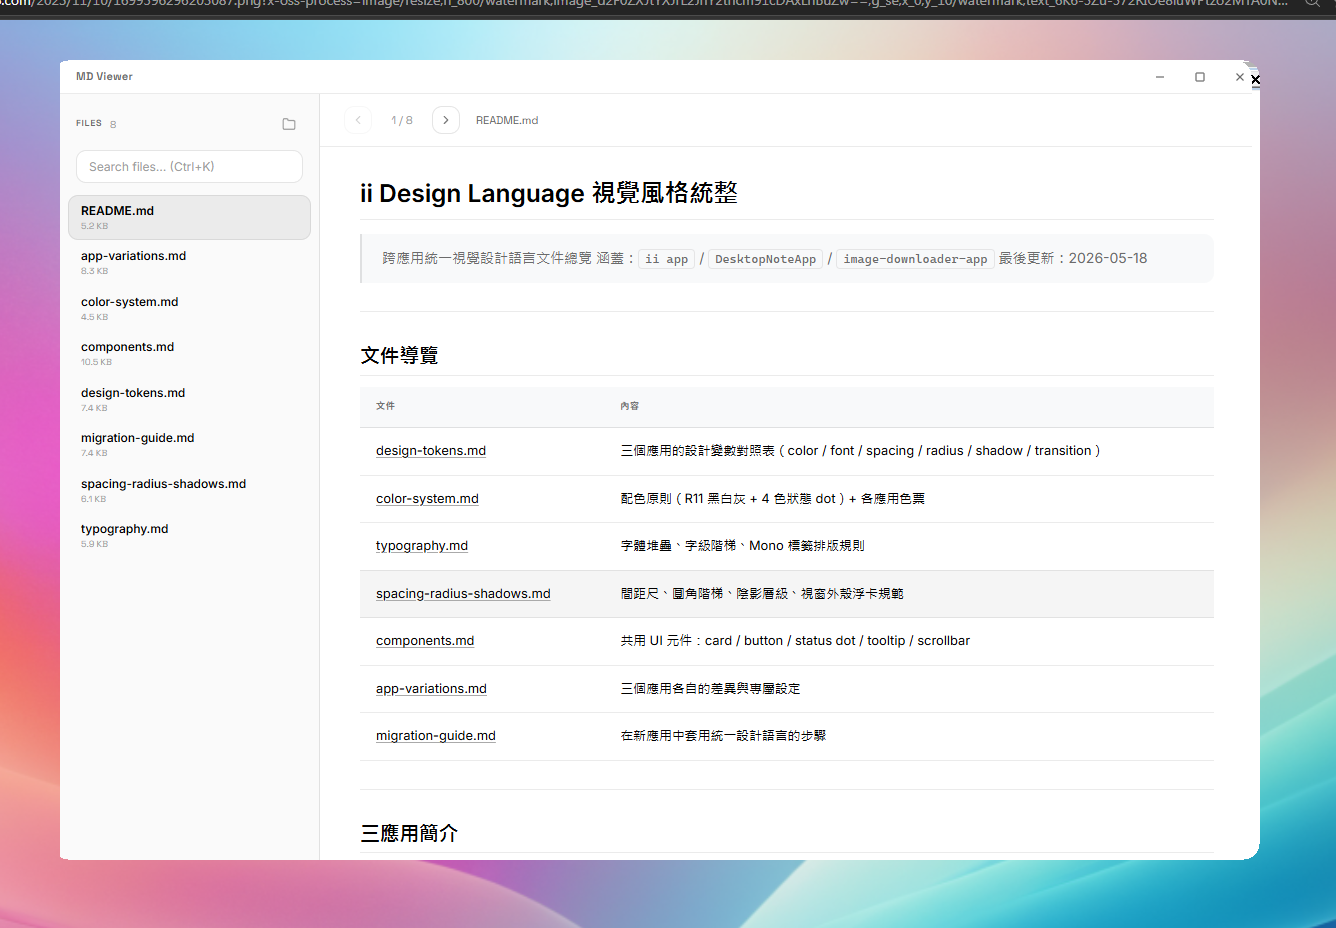
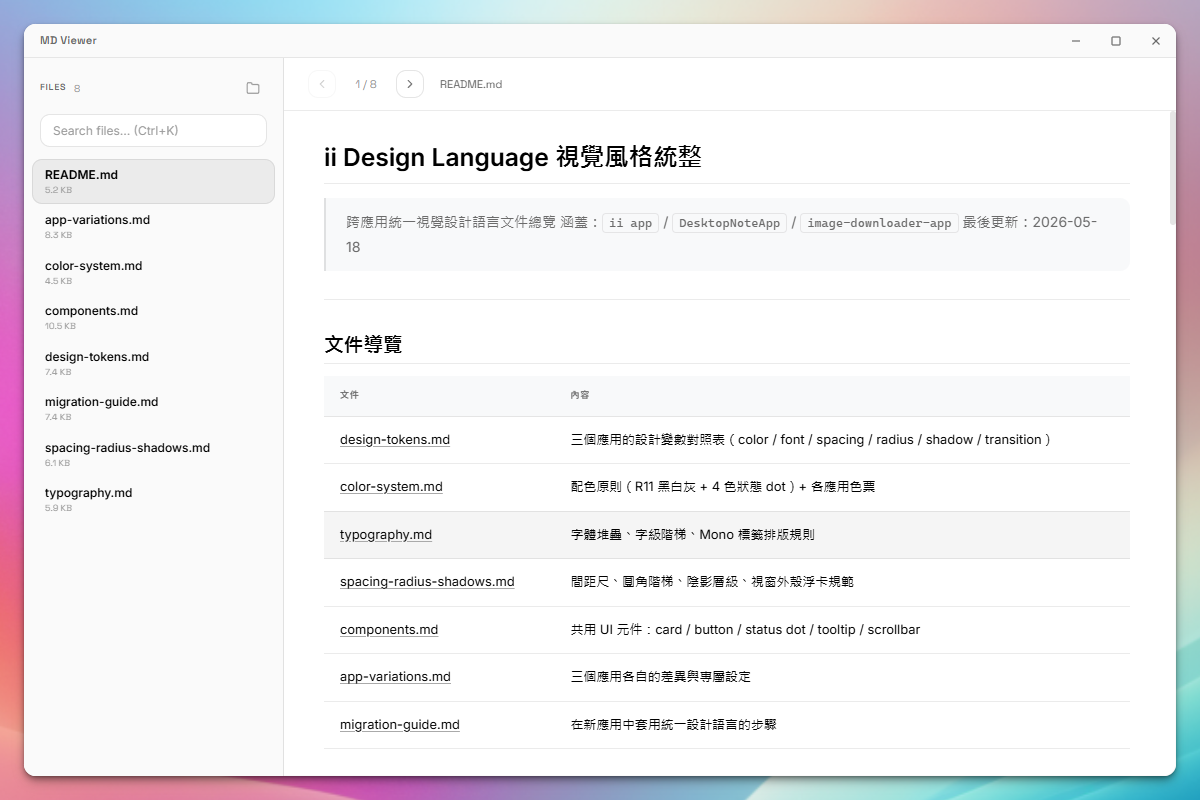
Switch rounded corners + shadow to transparent-window + CSS approach
The previous DWM/SetWindowRgn strategy on Windows 10 only produced a
bottom-edge shadow because DwmExtendFrameIntoClientArea cannot draw a
balanced drop shadow around a regioned, decoration-less window. Replace
it with the same pattern SVG Viewer uses (ii Design Language signature):

- tauri.conf: transparent=true, shadow=false (no DWM shadow needed)
- App.vue: outer .shell-padding (transparent ring) hosts the drag region;
  inner .shell carries background, border-radius, and a 3-layer CSS
  box-shadow that fades out within the 24px padding ring
- tokens.css: add --shadow-shell (matches SVG Viewer's --shadow-shell),
  --shell-padding 24px, --window-radius 12px, body background transparent
- TitleBar.vue: drop the redundant top-corner radius — the .shell already
  clips it with overflow: hidden
- lib.rs: remove the now-unused win_corners module and setup hook

Result: balanced soft drop shadow on all four sides, identical to
SVG Viewer's chrome.

diff --git a/src/App.vue b/src/App.vue
@@ -2,11 +2,21 @@
 import { ref, onMounted } from 'vue'
 import { invoke } from '@tauri-apps/api/core'
 import { listen } from '@tauri-apps/api/event'
+import { getCurrentWindow } from '@tauri-apps/api/window'
 import type { MdFileEntry, ViewState } from './types'
 import { scanMdFiles, saveLastDir } from './composables/useFileSystem'
 import TitleBar from './components/TitleBar.vue'
 import LandingPage from './components/LandingPage.vue'
 import FileBrowser from './components/FileBrowser.vue'
+
+const win = getCurrentWindow()
+
+/** Drag the window from the transparent outer padding ring. */
+async function onPaddingMouseDown(e: MouseEvent) {
+  if (e.button !== 0) return
+  if (e.target !== e.currentTarget) return
+  await win.startDragging()
+}
 
 const view = ref<ViewState>('landing')
 const files = ref<MdFileEntry[]>([])
@@ -67,36 +77,48 @@ onMounted(async () => {
 </script>
 
 <template>
-  <div class="app-frame">
-    <TitleBar />
-    <div class="app-body">
-      <LandingPage
-        v-if="view === 'landing'"
-        @folder-opened="handleFolderOpened"
-      />
-      <FileBrowser
-        v-else
-        :files="files"
-        :current-dir="currentDir"
-        :initial-file-path="initialFilePath"
-        @change-folder="handleChangeFolder"
-        @folder-opened="handleFolderOpened"
-      />
+  <div class="shell-padding" @mousedown="onPaddingMouseDown" data-tauri-drag-region>
+    <div class="shell">
+      <TitleBar />
+      <div class="shell-body">
+        <LandingPage
+          v-if="view === 'landing'"
+          @folder-opened="handleFolderOpened"
+        />
+        <FileBrowser
+          v-else
+          :files="files"
+          :current-dir="currentDir"
+          :initial-file-path="initialFilePath"
+          @change-folder="handleChangeFolder"
+          @folder-opened="handleFolderOpened"
+        />
+      </div>
     </div>
   </div>
 </template>
 
 <style scoped>
-.app-frame {
-  width: 100%;
+/* Outer ring — fully transparent so the inner shell's box-shadow can fade out. */
+.shell-padding {
   height: 100%;
+  padding: var(--shell-padding);
+  background: transparent;
+  overflow: hidden;
+}
+
+/* The visible card — rounded corners + layered drop shadow. */
+.shell {
+  height: 100%;
+  background: var(--bg);
+  border-radius: var(--window-radius);
+  box-shadow: var(--shadow-shell);
   display: flex;
   flex-direction: column;
   overflow: hidden;
-  background: var(--bg);
 }
 
-.app-body {
+.shell-body {
   flex: 1;
   overflow: hidden;
 }

diff --git a/src/styles/tokens.css b/src/styles/tokens.css
@@ -72,6 +72,12 @@
   /* Shadows */
   --shadow-card:  0 1px 4px rgba(0, 0, 0, 0.06);
   --shadow-modal: 0 4px 24px rgba(0, 0, 0, 0.18);
+  /* App-shell shadow — needs the outer transparent padding to fade out within. */
+  --shadow-shell:
+    inset 0 0 0 1px var(--bg-raised),
+    0 1px 2px rgba(0, 0, 0, 0.18),
+    0 3px 6px rgba(0, 0, 0, 0.26),
+    0 6px 12px -2px rgba(0, 0, 0, 0.34);
 
   /* Glass */
   --glass-bg:     rgba(255, 255, 255, 0.78);
@@ -80,7 +86,8 @@
   /* Layout */
   --sidebar-width: 260px;
   --titlebar-h: 34px;
-  --window-radius: 16px;
+  --window-radius: 12px;
+  --shell-padding: 24px;
 }
 
 /* ── Base ───────────────────────────────────────── */
@@ -92,7 +99,7 @@ html, body, #app {
   font-size: var(--text-md);
   line-height: 1.5;
   color: var(--fg);
-  background: var(--bg);
+  background: transparent;
   -webkit-font-smoothing: antialiased;
   -moz-osx-font-smoothing: grayscale;
 }

diff --git a/src/components/TitleBar.vue b/src/components/TitleBar.vue
@@ -79,13 +79,12 @@ onUnmounted(() => {
   justify-content: space-between;
   height: var(--titlebar-h);
   padding-left: var(--gap-4);
-  background: var(--bg);
+  background: var(--bg-raised);
   border-bottom: 0.5px solid var(--border-soft);
   flex-shrink: 0;
   user-select: none;
   -webkit-user-select: none;
-  /* Top corners match the window radius */
-  border-radius: var(--window-radius) var(--window-radius) 0 0;
+  /* Top corners are already clipped by the parent .shell — no radius needed here */
 }
 
 .titlebar-title {

diff --git a/src-tauri/src/lib.rs b/src-tauri/src/lib.rs
@@ -133,87 +133,6 @@ fn is_md_file_arg(arg: &str) -> bool {
             .unwrap_or(false)
 }
 
-/* ── Windows: rounded window corners ──────────── */
-// Strategy:
-// 1. Windows 11 (build 22000+): DwmSetWindowAttribute with DWMWA_WINDOW_CORNER_PREFERENCE
-//    -> smooth anti-aliased rounded corners + native shadow
-// 2. Windows 10: SetWindowRgn with CreateRoundRectRgn
-//    -> aliased but visible rounded corners (DWM corner API is no-op on Win10)
-
-#[cfg(target_os = "windows")]
-mod win_corners {
-    use std::ffi::c_void;
-
-    #[repr(C)]
-    struct RECT { left: i32, top: i32, right: i32, bottom: i32 }
-
-    #[repr(C)]
-    struct MARGINS { cx_left: i32, cx_right: i32, cy_top: i32, cy_bottom: i32 }
-
-    #[link(name = "dwmapi")]
-    extern "system" {
-        fn DwmSetWindowAttribute(hwnd: isize, attr: u32, value: *const c_void, size: u32) -> i32;
-        fn DwmExtendFrameIntoClientArea(hwnd: isize, pMarInset: *const MARGINS) -> i32;
-    }
-
-    #[link(name = "user32")]
-    extern "system" {
-        fn GetClientRect(hwnd: isize, lpRect: *mut RECT) -> i32;
-        fn SetWindowRgn(hwnd: isize, hrgn: *mut c_void, b_redraw: i32) -> i32;
-    }
-
-    #[link(name = "gdi32")]
-    extern "system" {
-        fn CreateRoundRectRgn(
-            x1: i32, y1: i32, x2: i32, y2: i32, w: i32, h: i32,
-        ) -> *mut c_void;
-    }
-
-    const DWMWA_WINDOW_CORNER_PREFERENCE: u32 = 33;
-    const DWMWCP_ROUND: u32 = 2;
-    const CORNER_RADIUS: i32 = 16;
-
-    /// Enable DWM-drawn shadow even for borderless / regioned windows.
-    /// Margins of {0,0,1,0} extends the frame just 1px into the top of the
-    /// client area — enough for DWM to draw a shadow around the whole window
-    /// without visually affecting our custom title bar.
-    fn enable_shadow(hwnd: isize) {
-        unsafe {
-            let m = MARGINS { cx_left: 0, cx_right: 0, cy_top: 1, cy_bottom: 0 };
-            DwmExtendFrameIntoClientArea(hwnd, &m);
-        }
-    }
-
-    pub fn apply(hwnd: isize) {
-        unsafe {
-            // 1) Try Windows 11 native rounded corners (preserves shadow automatically)
-            let pref = DWMWCP_ROUND;
-            let hr = DwmSetWindowAttribute(
-                hwnd,
-                DWMWA_WINDOW_CORNER_PREFERENCE,
-                &pref as *const u32 as *const c_void,
-                std::mem::size_of::<u32>() as u32,
-            );
-
-            if hr != 0 {
-                // 2) Windows 10 fallback: SetWindowRgn for rounded corners
-                let mut rect = RECT { left: 0, top: 0, right: 0, bottom: 0 };
-                GetClientRect(hwnd, &mut rect);
-                let region = CreateRoundRectRgn(
-                    0, 0,
-                    rect.right + 1, rect.bottom + 1,
-                    CORNER_RADIUS * 2 + 1, CORNER_RADIUS * 2 + 1,
-                );
-                if !region.is_null() {
-                    SetWindowRgn(hwnd, region, 1);
-                }
-                // SetWindowRgn strips the DWM shadow — extend the frame to restore it
-                enable_shadow(hwnd);
-            }
-        }
-    }
-}
-
 /* ── App Entry ──────────────────────────────────── */
 
 #[cfg_attr(mobile, tauri::mobile_entry_point)]
@@ -233,28 +152,6 @@ pub fn run() {
                 }
             }
         }))
-        .setup(|app| {
-            #[cfg(target_os = "windows")]
-            {
-                if let Some(window) = app.get_webview_window("main") {
-                    if let Ok(hwnd) = window.hwnd() {
-                        let h = hwnd.0 as isize;
-                        win_corners::apply(h);
-
-                        // Re-apply on resize so the rounded region tracks the window size
-                        let win_clone = window.clone();
-                        window.on_window_event(move |event| {
-                            if let tauri::WindowEvent::Resized(_) = event {
-                                if let Ok(hwnd) = win_clone.hwnd() {
-                                    win_corners::apply(hwnd.0 as isize);
-                                }
-                            }
-                        });
-                    }
-                }
-            }
-            Ok(())
-        })
         .invoke_handler(tauri::generate_handler![
             scan_md_files,
             read_text_file,
